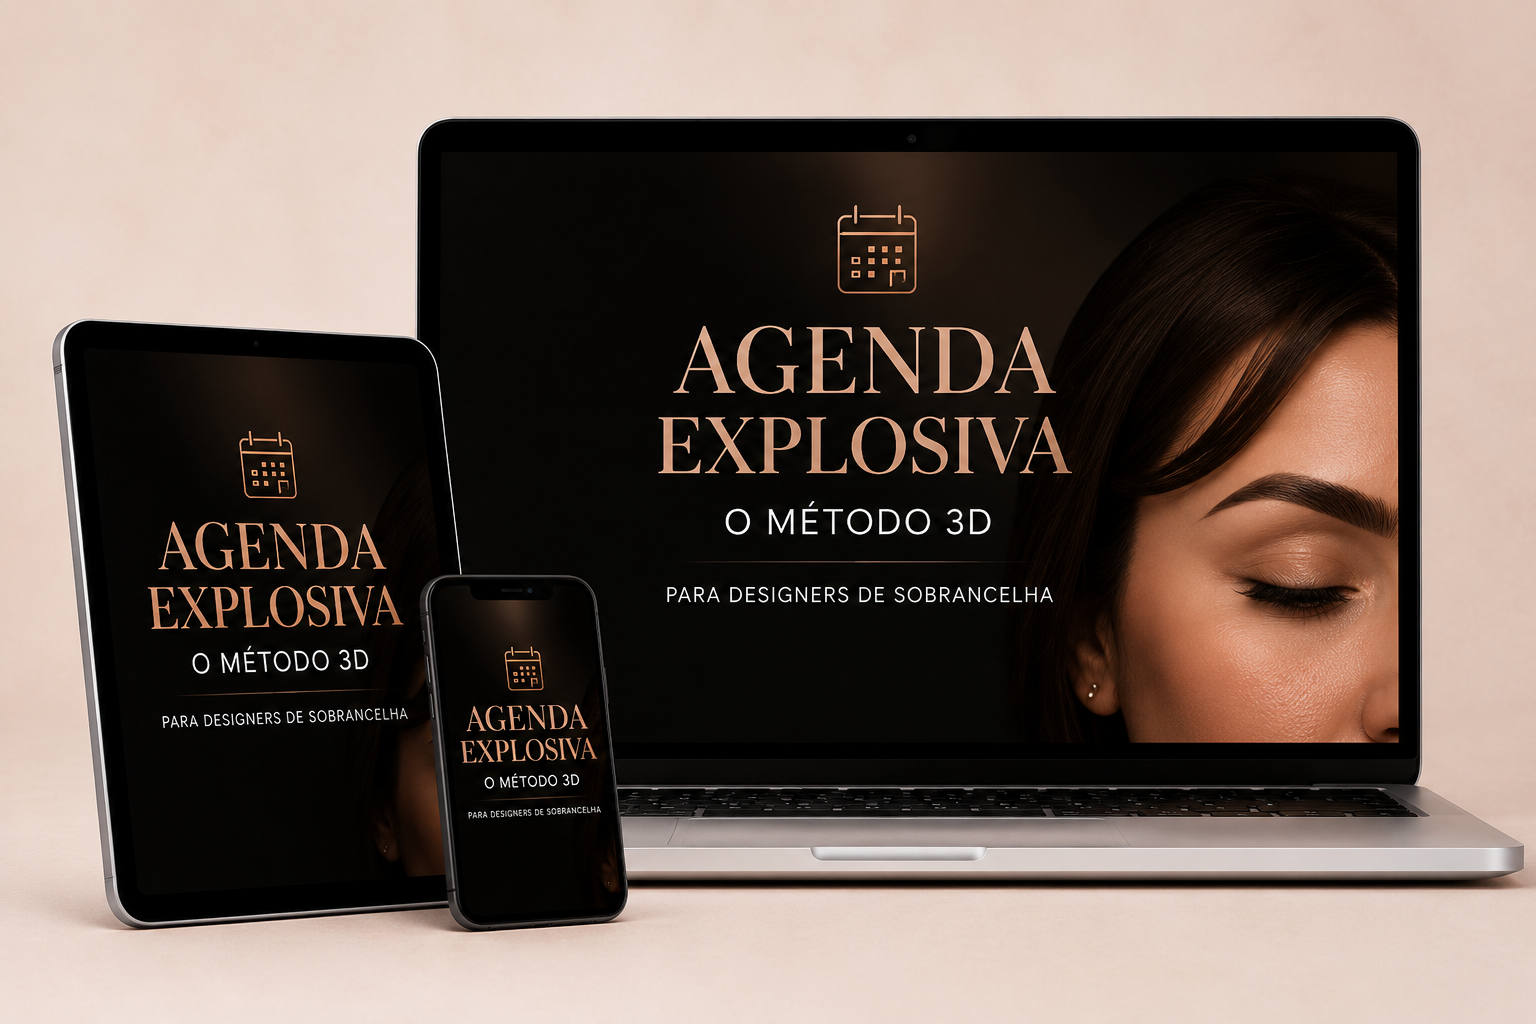
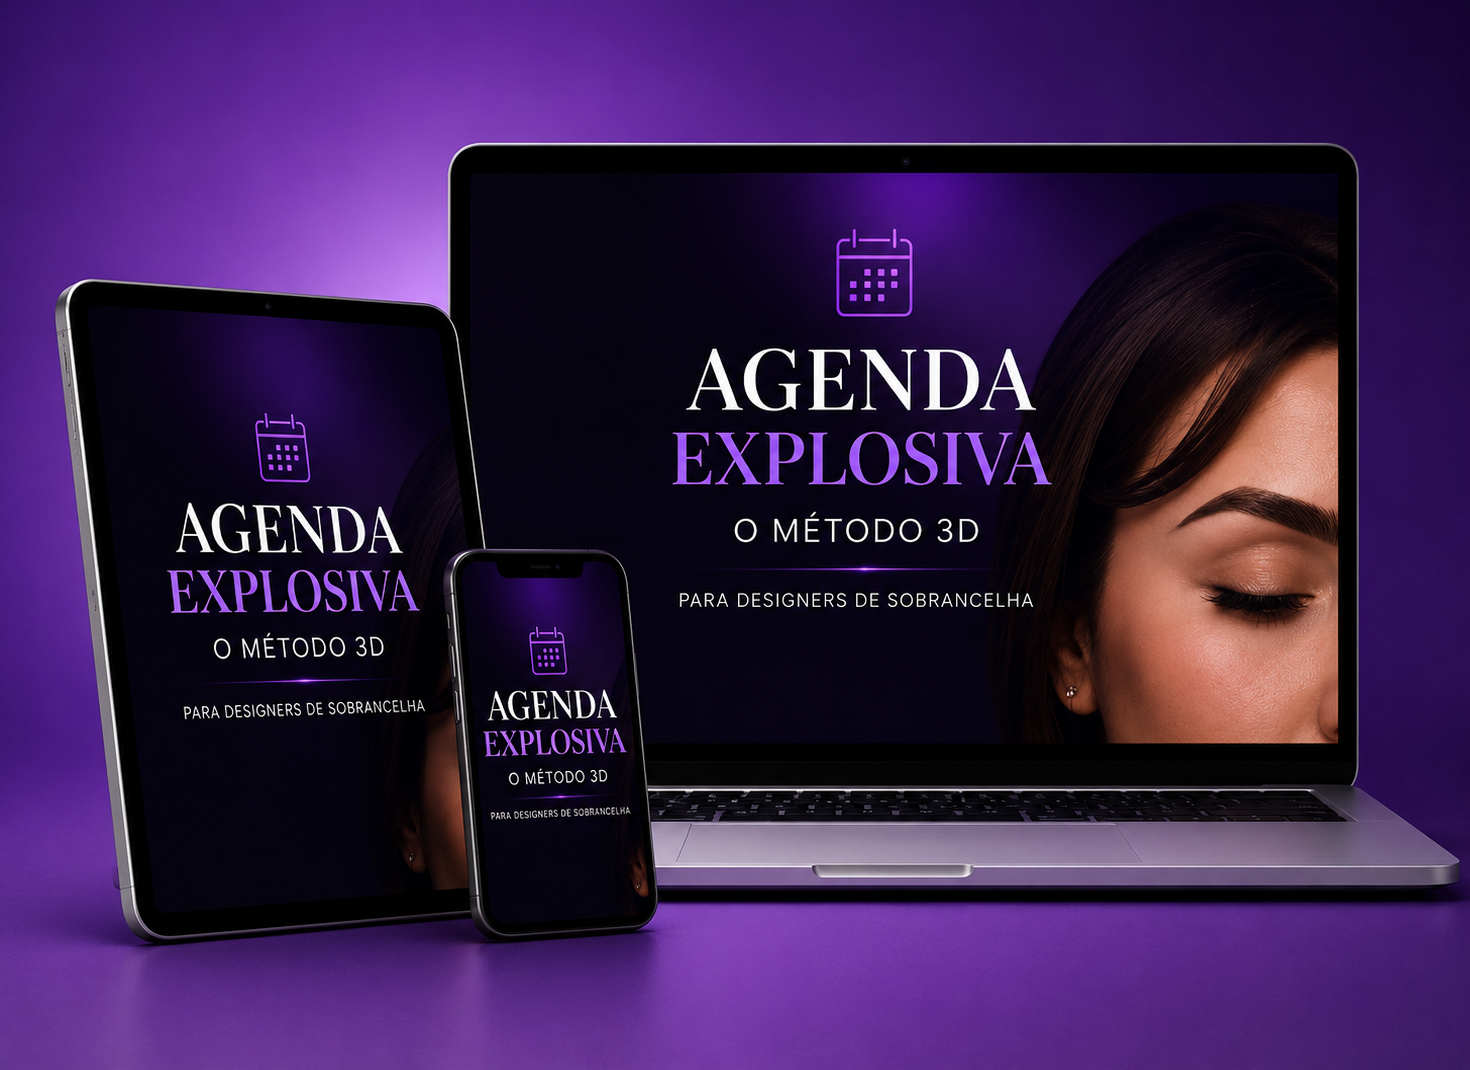
Atualiza imagens principais da landing page

diff --git a/index.html b/index.html
@@ -2594,11 +2594,26 @@
       }
 
       .hero-image {
-        width: min(100%, 640px);
+        width: 100%;
+        height: clamp(360px, 31vw, 440px);
+        object-fit: cover;
+        object-position: center 54%;
+        transform: none !important;
+        transition: box-shadow 180ms ease;
       }
 
       .hero-actions .btn {
         width: min(100%, 470px);
+      }
+
+      .float-soft {
+        width: min(100%, 640px);
+        animation: none;
+      }
+
+      .hero-image:hover,
+      .mockup-wrap img {
+        transform: none !important;
       }
     }
 
@@ -2692,9 +2707,9 @@
 
       .hero-visual-mobile img {
         width: 100%;
-        height: clamp(188px, 52vw, 215px);
+        height: clamp(210px, 58vw, 235px);
         object-fit: cover;
-        object-position: center;
+        object-position: center 52%;
       }
 
       .hero .lead,